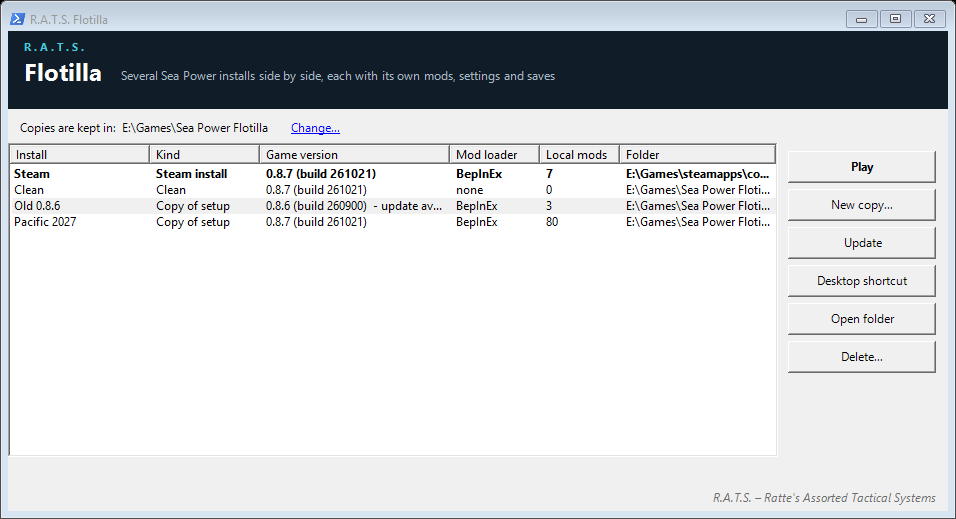
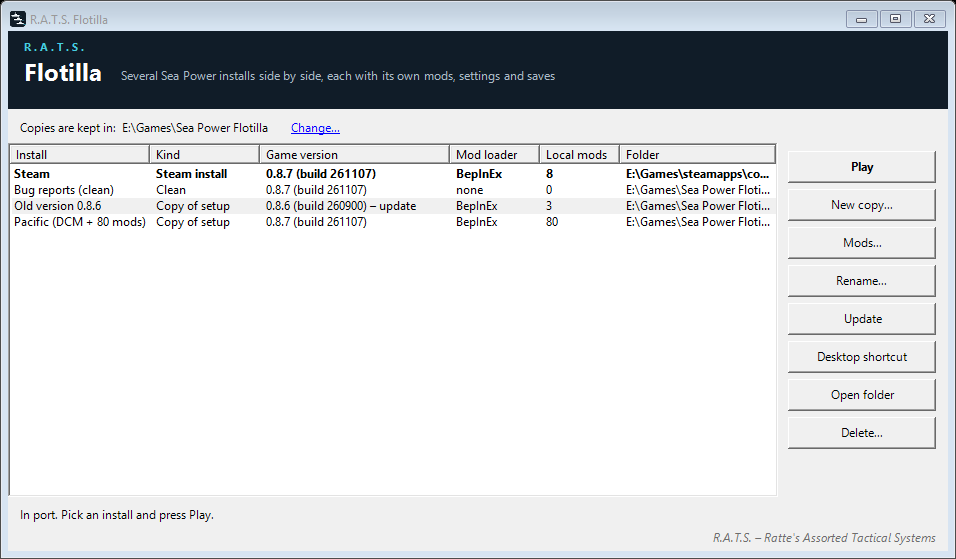
Workshop: run safely from a Workshop folder, item content, page text and picture

diff --git a/src/Flotilla/AppHome.cs b/src/Flotilla/AppHome.cs
@@ -1,0 +1,85 @@
+using System;
+using System.Diagnostics;
+using System.IO;
+using System.Linq;
+using System.Threading;
+using System.Windows.Forms;
+
+namespace Flotilla
+{
+    /// <summary>
+    /// Steam can replace or remove files in a Workshop folder at any time, so the app does not run from there: started from
+    /// the Workshop it places itself in %LOCALAPPDATA%\R.A.T.S. Flotilla\App and continues from that copy, which desktop shortcuts
+    /// point to. That copy in turn hands over to a newer Workshop version when one has arrived.
+    /// </summary>
+    public static class AppHome
+    {
+        public const string ExeName = "SeaPowerFlotilla.exe";
+        public static string Dir => Path.Combine(Settings.Dir, "App");
+        public static string Exe => Path.Combine(Dir, ExeName);
+
+        public static bool InWorkshop(string path) =>
+            path.IndexOf($@"\workshop\content\{Game.AppId}\", StringComparison.OrdinalIgnoreCase) >= 0;
+
+        public static bool IsNewer(string candidate, string current)
+        {
+            try { return Version.Parse(candidate) > Version.Parse(current); }
+            catch (Exception e) when (e is ArgumentException || e is FormatException || e is OverflowException) { return false; }
+        }
+
+        static string VersionOf(string exe) => FileVersionInfo.GetVersionInfo(exe).FileVersion;
+
+        /// <summary>Copies the exe and its config into home, waiting a moment for an older copy that is just closing.</summary>
+        public static void Place(string sourceExe, string home)
+        {
+            Directory.CreateDirectory(home);
+            foreach (var source in new[] { sourceExe, sourceExe + ".config" })
+            {
+                if (!File.Exists(source)) continue;
+                for (int attempt = 1; ; attempt++)
+                {
+                    try { File.Copy(source, Path.Combine(home, Path.GetFileName(source)), true); break; }
+                    catch (IOException) when (attempt < 20) { Thread.Sleep(250); }
+                }
+            }
+        }
+
+        /// <summary>True if another process has taken over and this one should end.</summary>
+        public static bool HandOver(Fleet fleet)
+        {
+            var self = Application.ExecutablePath;
+            try
+            {
+                if (InWorkshop(self)) return FromWorkshop(self);
+                if (Layout.Same(Path.GetFullPath(self), Path.GetFullPath(Exe)) && fleet.SteamGame != null) return ToNewerWorkshop(self, fleet);
+            }
+            catch (Exception e) when (e is IOException || e is UnauthorizedAccessException || e is System.ComponentModel.Win32Exception)
+            {
+                Settings.Log("hand-over failed, running from here: " + e.Message);  // still a working app
+            }
+            return false;
+        }
+
+        static bool FromWorkshop(string self)
+        {
+            bool first = !File.Exists(Exe);
+            if (first || IsNewer(VersionOf(self), VersionOf(Exe))) Place(self, Dir);
+            if (first && MessageBox.Show("Put a \"R.A.T.S. Flotilla\" shortcut on your desktop?", Program.Title, MessageBoxButtons.YesNo, MessageBoxIcon.Question) == DialogResult.Yes)
+                Shortcut.MakeAppShortcut(Exe);
+            Process.Start(new ProcessStartInfo(Exe) { UseShellExecute = false })?.Dispose();
+            return true;
+        }
+
+        static bool ToNewerWorkshop(string self, Fleet fleet)
+        {
+            var workshop = ModList.WorkshopDir(fleet);
+            if (!Directory.Exists(workshop)) return false;
+            var own = VersionOf(self);
+            var newer = Directory.GetDirectories(workshop).Select(d => Path.Combine(d, ExeName))
+                .FirstOrDefault(f => File.Exists(f) && IsNewer(VersionOf(f), own));
+            if (newer == null) return false;
+            Process.Start(new ProcessStartInfo(newer) { UseShellExecute = false })?.Dispose();
+            return true;
+        }
+    }
+}

diff --git a/tests/Flotilla.Tests/Program.cs b/tests/Flotilla.Tests/Program.cs
@@ -197,6 +197,15 @@ static class Tests
         File.Delete(cleanIni);
         Throws(() => ModList.Read(fleet, clean), "copy never started: asks to start it once");
 
+        // Workshop start: recognised, placed outside the Workshop, own item hidden from the mod lists, versions compared as numbers
+        Check(AppHome.InWorkshop(@"E:\Games\steamapps\workshop\content\1286220\999\SeaPowerFlotilla.exe") && !AppHome.InWorkshop(@"C:\Tools\SeaPowerFlotilla.exe"), "Workshop path recognised");
+        Check(AppHome.IsNewer("0.10.0.0", "0.9.0.0") && !AppHome.IsNewer("0.1.0.0", "0.1.0.0") && !AppHome.IsNewer("0.1.0", "0.2.0") && !AppHome.IsNewer("?", "0.1.0"), "versions compared as numbers");
+        var ownItem = Path.Combine(workshop, "999"); Put(ownItem, AppHome.ExeName, "new"); Put(ownItem, AppHome.ExeName + ".config", "cfg"); Put(ownItem, "_info.ini");
+        var home = Path.Combine(box, "AppHome"); Put(home, AppHome.ExeName, "old");
+        AppHome.Place(Path.Combine(ownItem, AppHome.ExeName), home);
+        Check(File.ReadAllText(Path.Combine(home, AppHome.ExeName)) == "new" && File.Exists(Path.Combine(home, AppHome.ExeName + ".config")), "placed, replacing an older copy");
+        Check(!ModList.Read(fleet, setup).Any(m => m.Folder == "999"), "Flotilla's own Workshop item is not listed as a mod");
+
         // Rename: the folder follows, data stays, other names and states refused
         var renamed = fleet.Rename(setup, "Pacific (DCM + 80 mods)");
         Check(renamed.Name == "Pacific (DCM + 80 mods)" && Directory.Exists(renamed.Dir) && !Directory.Exists(setup.Dir), "renamed with + and brackets");

diff --git a/src/Flotilla/Shortcut.cs b/src/Flotilla/Shortcut.cs
@@ -9,6 +9,25 @@ namespace Flotilla
         static string DesktopPath(string name) =>
             Path.Combine(Environment.GetFolderPath(Environment.SpecialFolder.DesktopDirectory), $"Sea Power ({name}).lnk");
 
+        /// <summary>"R.A.T.S. Flotilla.lnk" on the desktop: starts the app itself.</summary>
+        public static void MakeAppShortcut(string exe)
+        {
+            var shellType = Type.GetTypeFromProgID("WScript.Shell");
+            dynamic shell = Activator.CreateInstance(shellType);
+            try
+            {
+                dynamic link = shell.CreateShortcut(Path.Combine(Environment.GetFolderPath(Environment.SpecialFolder.DesktopDirectory), Program.Title + ".lnk"));
+                link.TargetPath = exe;
+                link.WorkingDirectory = Path.GetDirectoryName(exe);
+                link.IconLocation = exe + ",0";
+                link.Save();
+            }
+            finally
+            {
+                System.Runtime.InteropServices.Marshal.FinalReleaseComObject(shell);
+            }
+        }
+
         /// <summary>After a rename: a shortcut the copy already had follows the new name.</summary>
         public static void Renamed(string oldName, Install install)
         {

diff --git a/src/Flotilla/ModList.cs b/src/Flotilla/ModList.cs
@@ -64,7 +64,7 @@ namespace Flotilla
             var workshop = WorkshopDir(fleet);
             if (Directory.Exists(workshop))
                 foreach (var dir in Directory.GetDirectories(workshop).OrderBy(d => d, StringComparer.OrdinalIgnoreCase))
-                    if (ulong.TryParse(Path.GetFileName(dir), out var id))
+                    if (ulong.TryParse(Path.GetFileName(dir), out var id) && !File.Exists(Path.Combine(dir, AppHome.ExeName)))  // Flotilla's own item is no mod
                         mods.Add(Describe(dir, id, false));
             return mods;
         }

diff --git a/src/Flotilla/Program.cs b/src/Flotilla/Program.cs
@@ -28,6 +28,7 @@ namespace Flotilla
                     fleet.Play(install);
                     return 0;
                 }
+                if (AppHome.HandOver(fleet)) return 0;
                 Application.Run(new MainForm(fleet));
                 return 0;
             }

diff --git a/CHANGELOG.md b/CHANGELOG.md
@@ -3,4 +3,4 @@
 ## 0.1.0 – unreleased
 
 First version: clean copies and copies of the setup, Play with a per-copy data folder, Update after game updates,
-desktop shortcuts, Delete. Rename a copy. Mods window per copy (on/off, order, add a folder or zip to one copy). A copy interrupted by a crash or power cut is removed the next time Flotilla opens. Tested offline (tests/Flotilla.Tests). Run with the game on build 261107: a clean copy made and started, the Steam install's data folder back unchanged afterwards. A mod list saved in the Mods window was read by the game: the right mods on, in the right order.
+desktop shortcuts, Delete. Works from the Workshop (moves itself out of the Workshop folder, takes newer versions from it). Rename a copy. Mods window per copy (on/off, order, add a folder or zip to one copy). A copy interrupted by a crash or power cut is removed the next time Flotilla opens. Tested offline (tests/Flotilla.Tests). Run with the game on build 261107: a clean copy made and started, the Steam install's data folder back unchanged afterwards. A mod list saved in the Mods window was read by the game: the right mods on, in the right order.

diff --git a/docs/how-it-works.md b/docs/how-it-works.md
@@ -55,6 +55,12 @@ differs, and removes game files that the Steam install no longer has. It never t
 `user`, `ACConfigs` or `UserData`, and never copies mod folders from the Steam install. If a game update ever adds a new folder to
 StreamingAssets, Flotilla takes it for a mod folder and leaves it out; the list `GameStreaming` in `src/Flotilla/Game.cs` then needs it.
 
+## From the Workshop
+
+Steam can replace or remove a Workshop folder at any time, so Flotilla does not run from one. Started there, it copies itself to
+`%LOCALAPPDATA%\R.A.T.S. Flotilla\App`, offers a desktop shortcut the first time and continues from that copy. When that copy starts and the
+Workshop folder holds a newer version, it hands over to it and the newer version replaces it. Flotilla's own item is left out of its Mods window.
+
 ## Files of Flotilla itself
 
 - `%LOCALAPPDATA%\R.A.T.S. Flotilla\settings.ini`: the copies folder and, if it was located by hand, the Sea Power folder.

diff --git a/README.md b/README.md
@@ -13,7 +13,9 @@ Download `SeaPowerFlotilla-<version>.zip` from [Releases](https://github.com/str
 folder that stays (desktop shortcuts point there) and start `SeaPowerFlotilla.exe`. Nothing to install: it needs .NET Framework 4.8,
 which every Windows 10 and 11 has. The exe is not signed, so Windows may say "unknown publisher": *More info* → *Run anyway*.
 
-It is not a game mod: it does not go into the game folder and is not on the Steam Workshop.
+Or subscribe on the Steam Workshop and start `SeaPowerFlotilla.exe` once from the item's folder; it moves to `%LOCALAPPDATA%\R.A.T.S. Flotilla\App` and picks up newer Workshop versions by itself.
+
+It is not a game mod: its entry in the game's Mods menu does nothing and can stay off.
 
 ## Use
 
